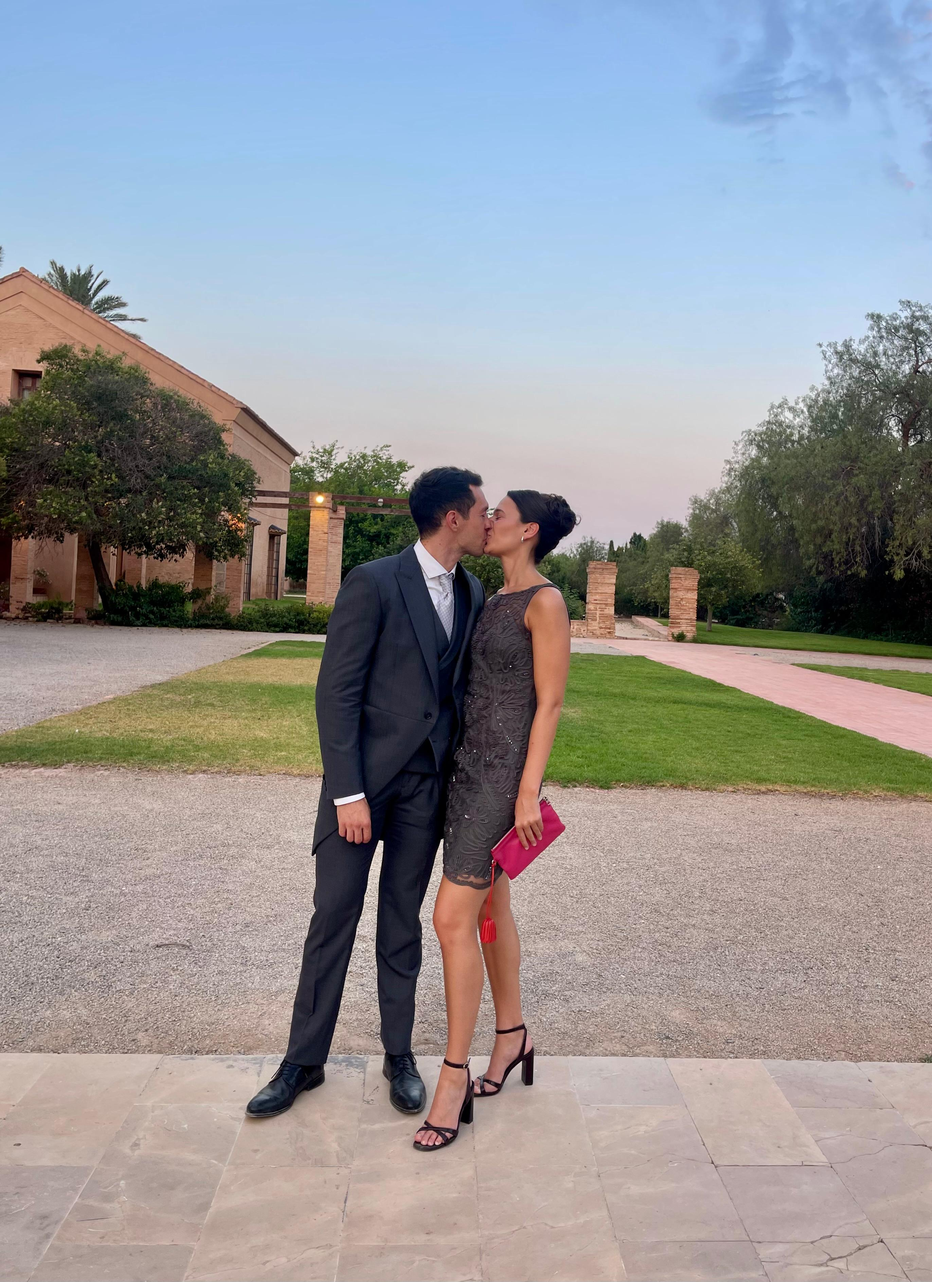
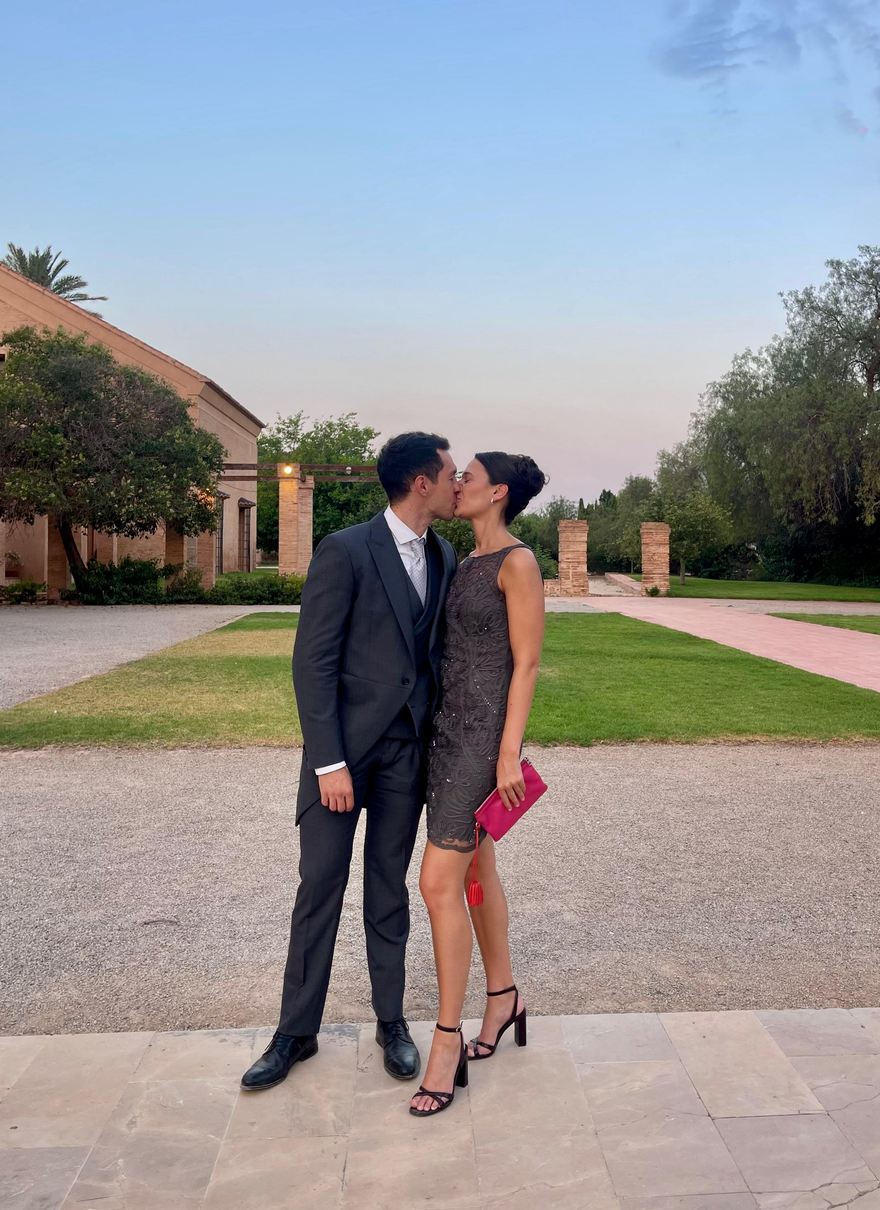
Straighten hero photo; keep site out of search engines
Hero was shot ~2.5° clockwise (pillars and building leaned 3–4°).
Rotated 2.5° CCW and cropped the corners (keeps 94% per side),
then re-exported hero.webp at 1600x2200.

Add robots noindex/nofollow meta so the site (and the IBAN, once
added) doesn't show up in search results. Link previews still work.

diff --git a/index.html b/index.html
@@ -3,6 +3,8 @@
 <head>
   <meta charset="UTF-8" />
   <meta name="viewport" content="width=device-width, initial-scale=1.0, viewport-fit=cover" />
+  <!-- private wedding site: keep it out of search engines (link previews still work) -->
+  <meta name="robots" content="noindex, nofollow" />
   <title>Evi &amp; Pepe · 28 May 2027 · Valencia</title>
   <meta name="description" content="Evi & Pepe are getting married on Friday 28 May 2027 in Valencia, Spain. All the details: venue, schedule, travel, hotel and RSVP." />
   <meta name="theme-color" content="#19332B" />
